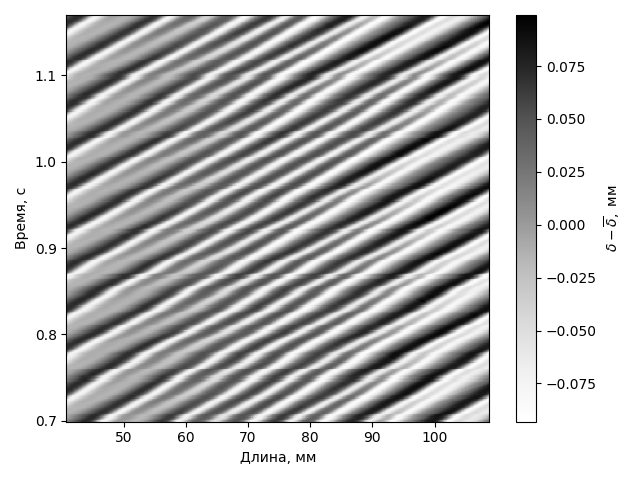
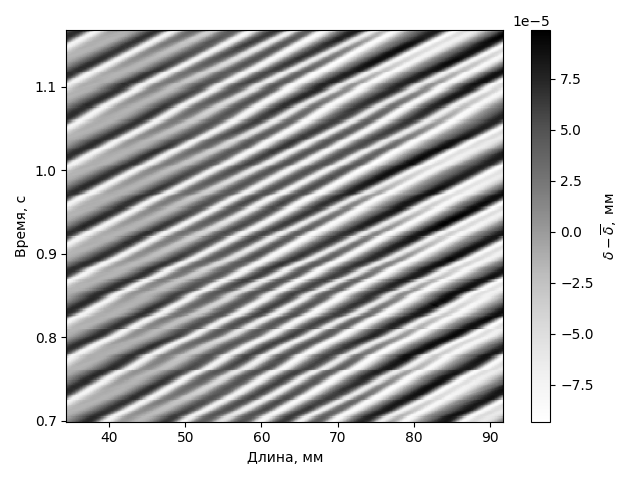
v5 Kapitsa

diff --git a/processing_part1.py b/processing_part1.py
@@ -38,7 +38,7 @@ from numpy.fft import fft2, fftshift, fftfreq
 
 nx_max = 1500
 ny_max = 60
-v = 4
+v = 6
 dt_step = 0.001
 x_frac_start = 0.3 
 x_frac_end = 0.8

diff --git a/processing_part4.py b/processing_part4.py
@@ -39,7 +39,7 @@ import pandas as pd
 
 nx_max = 1500
 ny_max = 60
-v = 4
+v = 5
 dt_step = 0.001
 x_frac_start = 0.3 
 x_frac_end = 1.0
